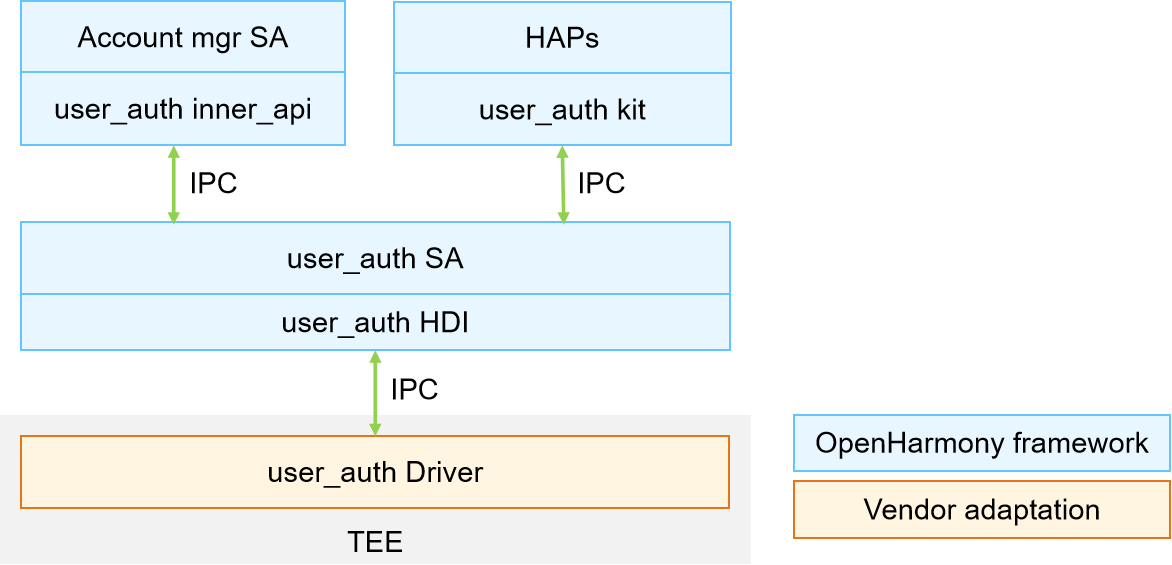
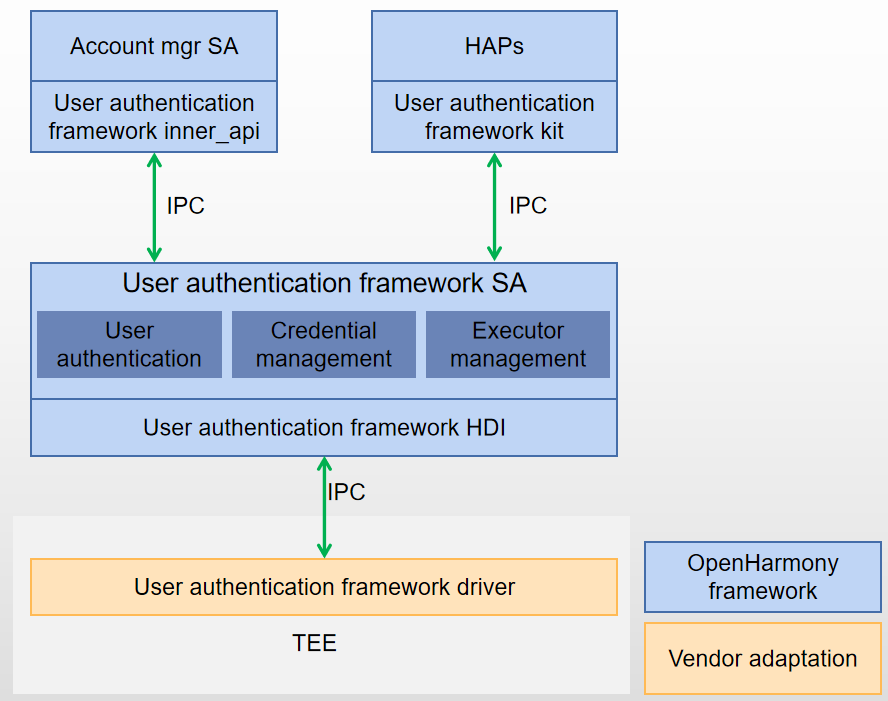
update readme

diff --git a/README_ZH.md b/README_ZH.md
@@ -10,15 +10,16 @@
 
 ## 简介
 
-**统一用户认证**（userauth）是用户IAM子系统的基础部件之一，对外提供统一用户身份认证功能，并且开放生物特征认证API给三方应用调用。
+**统一用户认证框架**（user_auth_framework）主要包括三个模块，用户认证、凭据管理和执行器管理。
+
+**用户认证模块**对外提供统一用户身份认证功能，并且开放生物特征认证API给三方应用调用。
+
+**凭据管理模块**提供系统内统一的用户凭据管理（增删改查）接口，向下通过执行器管理模块，调用系统内的执行器资源，完成用户凭据的生命周期管理和安全存储。
+
+**执行器管理模块**提供系统内执行器资源的统一管理和协同调度能力，当前支持口令执行器和人脸执行器的管理。
 
 **图1** 统一用户认证架构图
-
-<img src="figures/统一用户认证架构图.png" alt="统一用户认证架构图" style="zoom:80%;" />
-
-
-
-用户认证接口支持针对目标用户完成达到目标认证结果可信等级（ATL）的用户身份认证。其中目标ATL由业务指定，目标用户id可以由业务指定（系统服务或系统基础应用），也可以从系统上下文获取（三方应用）。
+<img src="figures/统一用户认证架构图.png" alt="统一用户认证架构图" style="zoom:65%;" />
 
 ## 目录
 
@@ -26,8 +27,9 @@
 //base/useriam/user_auth_framework
 ├── common              # 子系统公共库代码目录
 ├── frameworks          # 接口层实现代码目录
-│   └── js              # js接口实现代码
+│   └── js              # js API接口实现代码
 │       └── napi        # napi实现代码
+│   └── native          # C++代码实现
 ├── interfaces          # 对外接口存放目录
 │   └── inner_api       # 对内部子系统暴露的头文件，供系统服务使用
 │   └── kits            # OpenHarmony提供给第三方应用的接口文件
@@ -40,14 +42,71 @@
 
 ## 说明
 
-### 接口说明
+### **用户认证框架inner_api接口说明**
 
-**表1** 统一用户认证API
+**表1** 执行器管理相关接口
 
 | 接口名  | 描述                             |
 | ------ | -------------------------------- |
-| getAvailableStatus(authType : AuthType, authTrustLevel : AuthTrustLevel) : number; | 指定ATL，查询是否支持目标认证方式 |
-| auth(challenge: BigInt, authType : AuthType, authTrustLevel: AuthTrustLevel, callback: IUserAuthCallback): BigInt; | 指定ATL和认证方式，完成用户身份认证 |
+| Register(info : ExecutorInfo, callback : ExecutorRegisterCallback): number; | 执行器注册接口 |
+| Unregister(info : ExecutorInfo): number; | 执行器反注册接口 |
+
+**表2** 执行器需要实现的回调接口
+
+| 接口名  | 描述                             |
+| ------ | -------------------------------- |
+| OnMessengerReady(messenger : ExecutorMessenger, frameworkPublicKey : Uint8Array, templateIds : Uint64Array) void; | 通知执行器信使可用，传入信使（用于后续与执行器通信） |
+| OnBeginExecute(scheduleId : number, publicKey : Uint8Array, commandAttrs : Attributes) number; | 通知执行器开始执行认证相关操作，commandAttrs中传入本次操作的属性 |
+| OnEndExecute(scheduleId : number, commandAttrs : Attributes) number; | 通知执行器结束本次操作 |
+| OnSetProperty(properties : Attributes) number; | 设置属性信息 |
+| OnGetProperty(conditions : Attributes, results : Attributes) number; | 获取属性信息 |
+
+**表3** 信使函数相关接口
+
+| 接口名  | 描述                             |
+| ------ | -------------------------------- |
+| SendData(scheduleId : number, transNum : number, srcType : ExecutorRole, dstType : ExecutorRole, msg : AuthMessage) number; | 发送消息，消息源为执行器，目的端为认证执行器管理，消息内容由执行器指定，比如返回人脸认证过程中的提示信息（光线过暗） |
+| Finish(scheduleId : number, srcType : ExecutorRole, resultCode : number, finalResult : Attributes) number; | 操作结束，消息源为执行器，目的端为认证执行器管理，消息内容为本次操作的最终结果 |
+
+**表4** 凭据管理相关接口
+
+| 接口名  | 描述                             |
+| ------ | -------------------------------- |
+| OpenSession(userId : number): number; | 打开会话的接口 |
+| CloseSession(userId : number): number; | 关闭会话的接口 |
+| AddCredential(userId : number, para : CredentialParameters, callback : UserIdmClientCallback): number; | 录入凭据 |
+| UpdateCredential(userId : number, para : CredentialParameters, callback : UserIdmClientCallback): number; | 修改凭据 |
+| Cancel(userId : number): number; | 取消凭据录入 |
+| DeleteCredential(userId : number, credentialId : number, authToken : Uint8Array, callback : UserIdmClientCallback): void; | 凭据删除 |
+| DeleteUser(userId : number, authToken : Uint8Array, callback : UserIdmClientCallback): void; | 删除口令，当系统内删除用户口令时，同时删除该用户的全部认证凭据 |
+| EraseUser(userId : number, callback : UserIdmClientCallback): number; | 用于管理员强制删除用户，同时删除该用户的全部认证凭据 |
+| GetCredentialInfo(userId : number, authType : AuthType, callback : GetCredentialInfoCallback): number; | 获取凭据信息 |
+| GetUserInfo(userId : number, callback : GetUserInfoCallback): number; | 获取用户信息 |
+
+**表5** 用户认证相关接口
+
+| 接口名  | 描述                             |
+| ------ | -------------------------------- |
+| GetProperty(userId : number, request : GetPropertyRequest, callback : GetPropCallback) : void; | 获取属性 |
+| SetProperty(userId : number, request : SetPropertyRequest, callback : SetPropCallback) : void; | 设置属性 |
+| BeginAuthentication(userId : number, challenge : Uint8Array, authType : AuthType, atl : AuthTrustLevel, callback : AuthenticationCallback): number; | 指定ATL和认证方式，完成用户身份认证 |
+| CancelAuthentication(contextId : number): number; | 取消认证 |
+| BeginIdentify(challenge : Uint8Array, authType : AuthType, callback : IdentifyCallback): number; | 指定认证类型，完成用户身份识别 |
+| CancelIdentify(contextId : number): number; | 取消识别 |
+
+### **用户认证框架js接口说明**
+
+**表6** 用户认证模块js接口
+
+| 接口名  | 描述                             |
+| ------ | -------------------------------- |
+| getVersion() : number; | 获取版本信息 |
+| getAvailableStatus(authType : AuthType, authTrustLevel : AuthTrustLevel) : number; | 检查当前的认证等级是否支持 |
+| getProperty(request : GetPropertyRequest, callback : AsyncCallback<ExecutorProperty>): void; | 获取属性 |
+| setProperty(request : SetPropertyRequest, callback : AsyncCallback<number>): void; | 设置属性 |
+| auth(challenge : Uint8Array, authType : AuthType, authTrustLevel : AuthTrustLevel, callback : IUserAuthCallback): Uint8Array; | 用户认证 |
+| authUser(userId : number, challenge : Uint8Array, authType : AuthType, authTrustLevel : AuthTrustLevel, callback : IUserAuthCallback): Uint8Array; | 用户认证 |
+| cancelAuth(contextID : Uint8Array) : number; | 取消认证 |
 
 ### 使用说明
 
